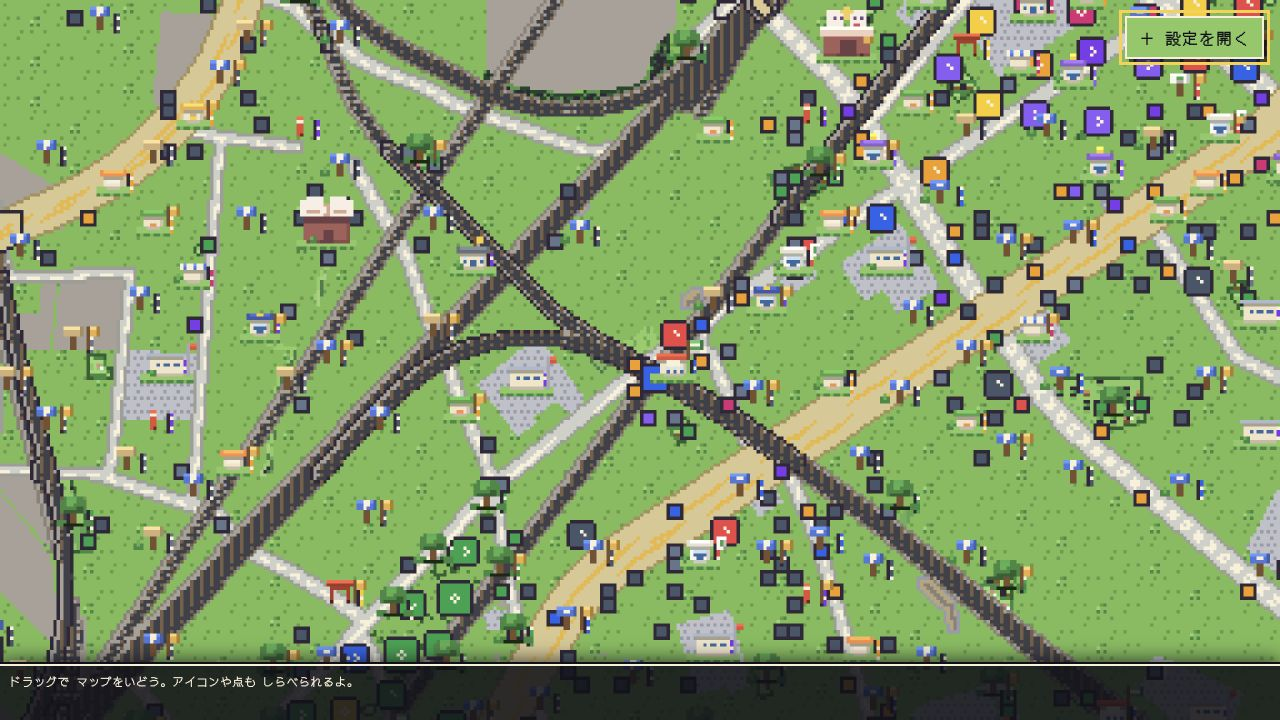
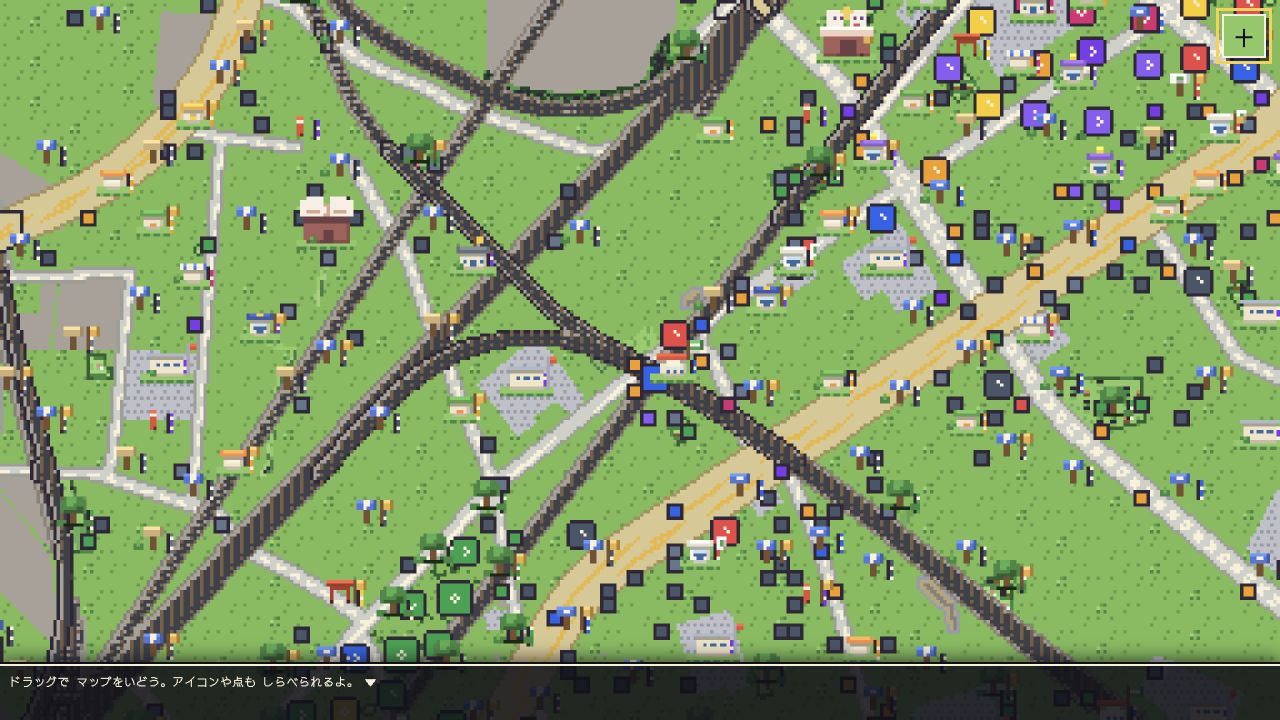
Pin settings controls to top right

Changed region(s): [[0.875, 0.0, 1.0, 0.0917]]

diff --git a/variants/map-02-refined.html b/variants/map-02-refined.html
@@ -185,30 +185,30 @@
   .location-btn:focus-visible{ outline:3px solid #f8d038; outline-offset:3px; }
   .location-btn:disabled{ cursor:wait; opacity:.65; }
   .settings-toggle{
-    flex:0 0 auto;
-    min-height:34px;
-    padding:5px 10px;
+    position:fixed;
+    top:max(14px, env(safe-area-inset-top, 0px));
+    right:max(14px, env(safe-area-inset-right, 0px));
+    z-index:50;
+    display:grid;
+    place-items:center;
+    width:44px;
+    height:44px;
+    padding:0;
     border:2px solid #f8f0d8;
     background:#181820;
     color:#f8f0d8;
     font:inherit;
-    letter-spacing:1px;
+    font-size:24px;
+    line-height:1;
     cursor:pointer;
-    white-space:nowrap;
+    box-shadow:4px 4px 0 #101018aa;
   }
   .settings-toggle:hover{ background:#282838; }
   .settings-toggle:focus-visible{ outline:3px solid #f8d038; outline-offset:3px; }
   #settingsOpenBtn{
     display:none;
-    position:fixed;
-    top:16px;
-    right:16px;
-    z-index:50;
-    min-height:42px;
-    padding:8px 12px;
     background:#88c860;
     color:#101018;
-    box-shadow:4px 4px 0 #101018aa;
   }
   #stats{ width:min(92vw,700px); font-size:11px; color:#a8a088; display:flex; flex-wrap:wrap; gap:4px 14px; }
   #attrib{ font-size:10px; color:#a8a088; padding:6px 12px; }
@@ -349,11 +349,6 @@
     }
     #toolbar .category-master{ min-height:32px; padding:5px 8px; }
     #toolbar .location-btn{
-      min-height:38px;
-      padding:8px 12px;
-      scroll-snap-align:start;
-    }
-    #toolbar .settings-toggle{
       min-height:38px;
       padding:8px 12px;
       scroll-snap-align:start;
@@ -526,7 +521,7 @@
     <button id="locateBtn" class="location-btn" type="button" disabled>◎ 現在地へ</button>
     <label class="category-master"><input type="checkbox" id="tglAllLayers">全レイヤー</label>
     <label class="category-master"><input type="checkbox" id="tglCell3">3×3セル（cell3）</label>
-    <button id="settingsCloseBtn" class="settings-toggle" type="button" aria-controls="toolbar" aria-expanded="true" hidden>－ 設定を閉じる</button>
+    <button id="settingsCloseBtn" class="settings-toggle" type="button" aria-label="設定を閉じる" title="設定を閉じる" aria-controls="toolbar" aria-expanded="true" hidden>－</button>
   </div>
 
   <section class="layer-category" role="group" aria-labelledby="natureCategoryTitle">
@@ -637,7 +632,7 @@
   </section>
 </div>
 
-<button id="settingsOpenBtn" class="settings-toggle" type="button" aria-controls="toolbar" aria-expanded="false" aria-hidden="true">＋ 設定を開く</button>
+<button id="settingsOpenBtn" class="settings-toggle" type="button" aria-label="設定を開く" title="設定を開く" aria-controls="toolbar" aria-expanded="false" aria-hidden="true">＋</button>
 
 <div id="msg" class="rpg-window" role="status" aria-live="polite">マップデータを よみこんでいる……<span class="cursor">▼</span></div>
 

diff --git a/log.html b/log.html
@@ -183,7 +183,7 @@
             </tr>
             <tr>
               <th scope="row">外側UIと同期</th>
-              <td>単独チェックでcell2/cell3を切替。URLの他条件とhashを保持して再読み込み。設定パネルは閉じることができ、閉じた間は地図を全画面表示。</td>
+              <td>単独チェックでcell2/cell3を切替。URLの他条件とhashを保持して再読み込み。設定パネルは右上固定の「－」で閉じ、閉じた間は地図を全画面表示。右上の「＋」で再表示。</td>
               <td>1マップは単独切替、2マップは位置同期を保ったまま左右別切替、4マップは親URLと4つのiframeを共通チェックで同期。</td>
             </tr>
           </tbody>
@@ -196,6 +196,18 @@
         <h2 id="history-title">変更履歴</h2>
         <small>NEWEST FIRST</small>
       </div>
+      <article class="entry">
+        <div class="entry-header">
+          <h3>設定ボタンを＋／－だけの右上固定へ変更</h3>
+          <time datetime="2026-08-23">2026-08-23 JST</time>
+        </div>
+        <dl class="entry-grid">
+          <div><dt>変更内容</dt><dd>設定の開閉ボタンから説明文を外し、表示を「＋」「－」だけに変更。設定の開閉状態にかかわらず同じ右上位置へ固定し、アクセシブル名とツールチップには説明を保持。</dd></div>
+          <div><dt>対象モード</dt><dd><strong>testのみ</strong>。standalone testの設定開閉ボタンだけを変更。</dd></div>
+          <div><dt>本番への影響</dt><dd>本番1・2・4マップの表示・設定UI・同期処理は変更なし。</dd></div>
+          <div><dt>確認内容</dt><dd>設定表示中の「－」と全画面表示中の「＋」が同じ右上座標にあること、表示文字、開閉往復、キーボードフォーカス、embeddedでの非表示、自動テスト、ビルド、実画面スクリーンショット、独立視覚レビューを確認。</dd></div>
+        </dl>
+      </article>
       <article class="entry">
         <div class="entry-header">
           <h3>standalone設定を閉じて地図を全画面化</h3>
